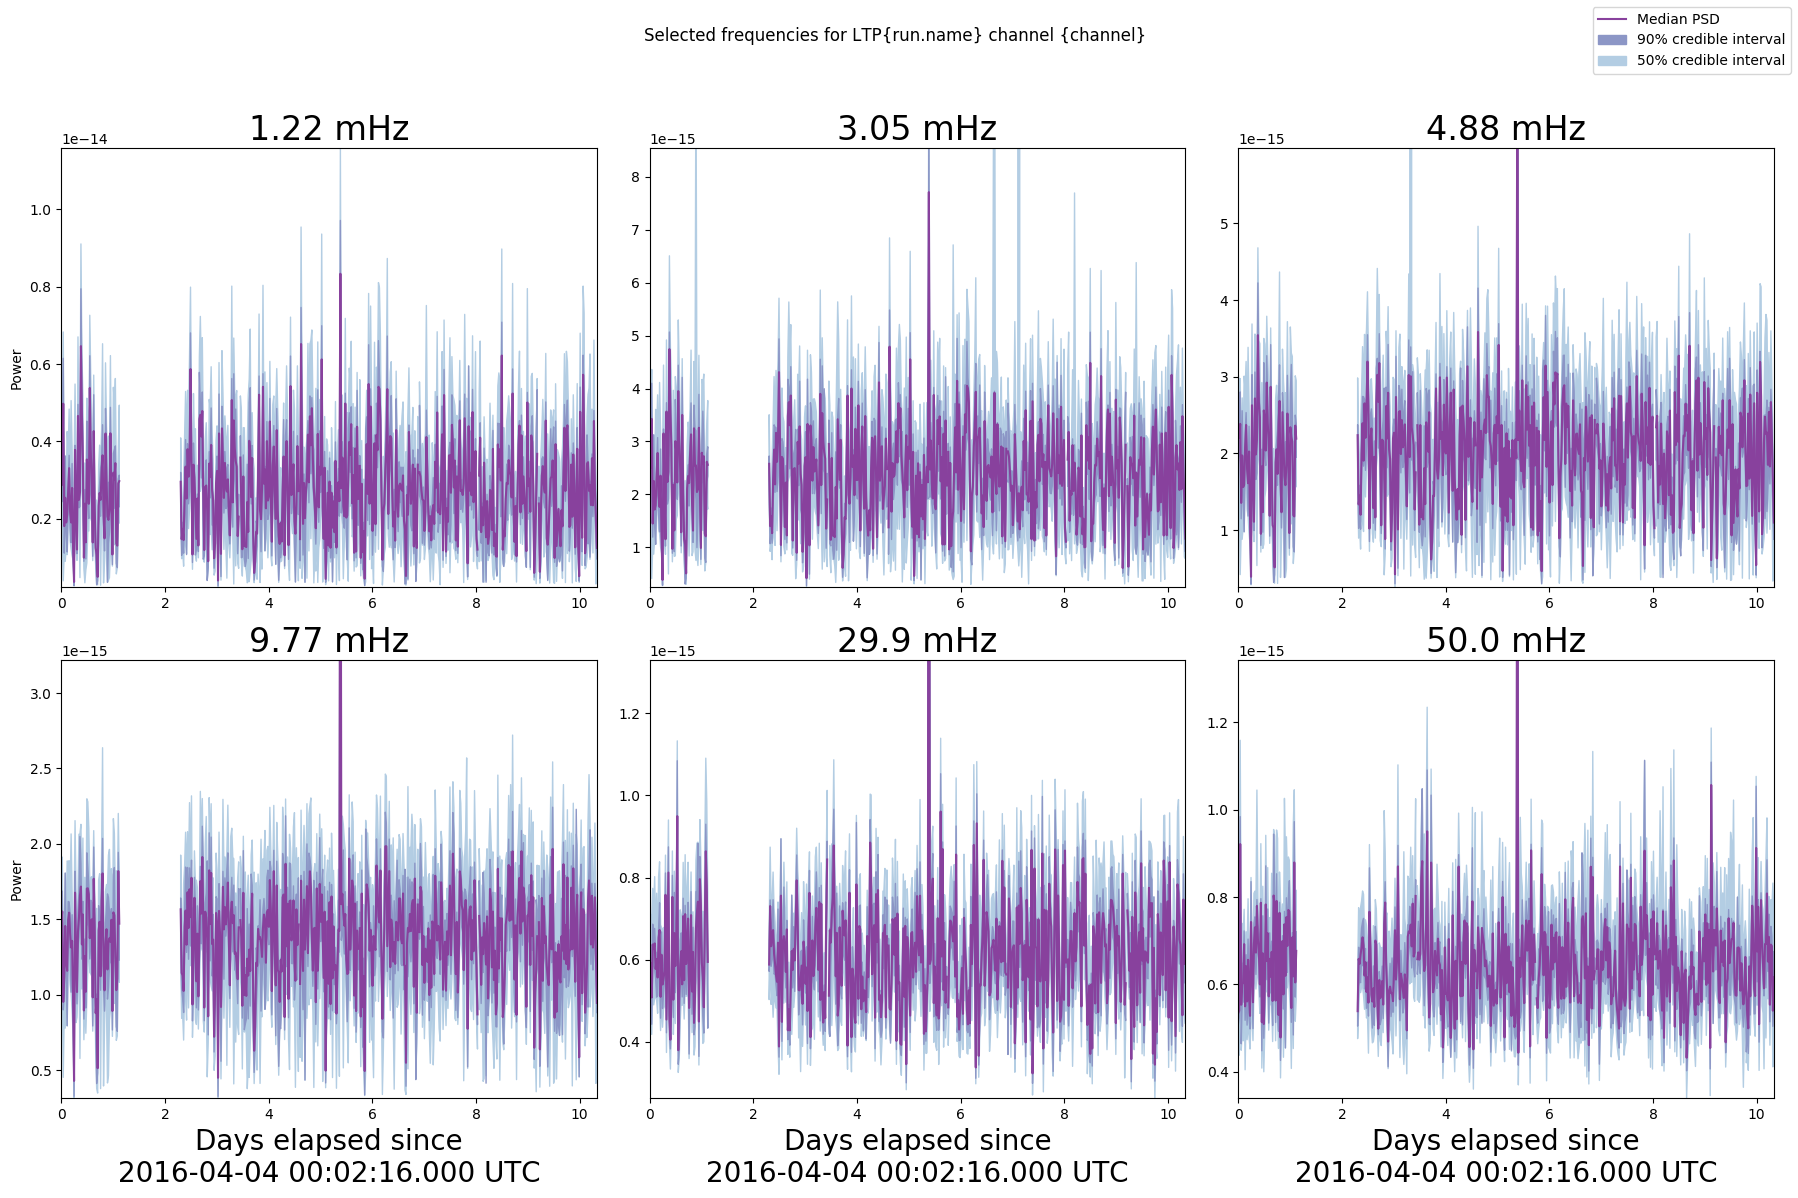
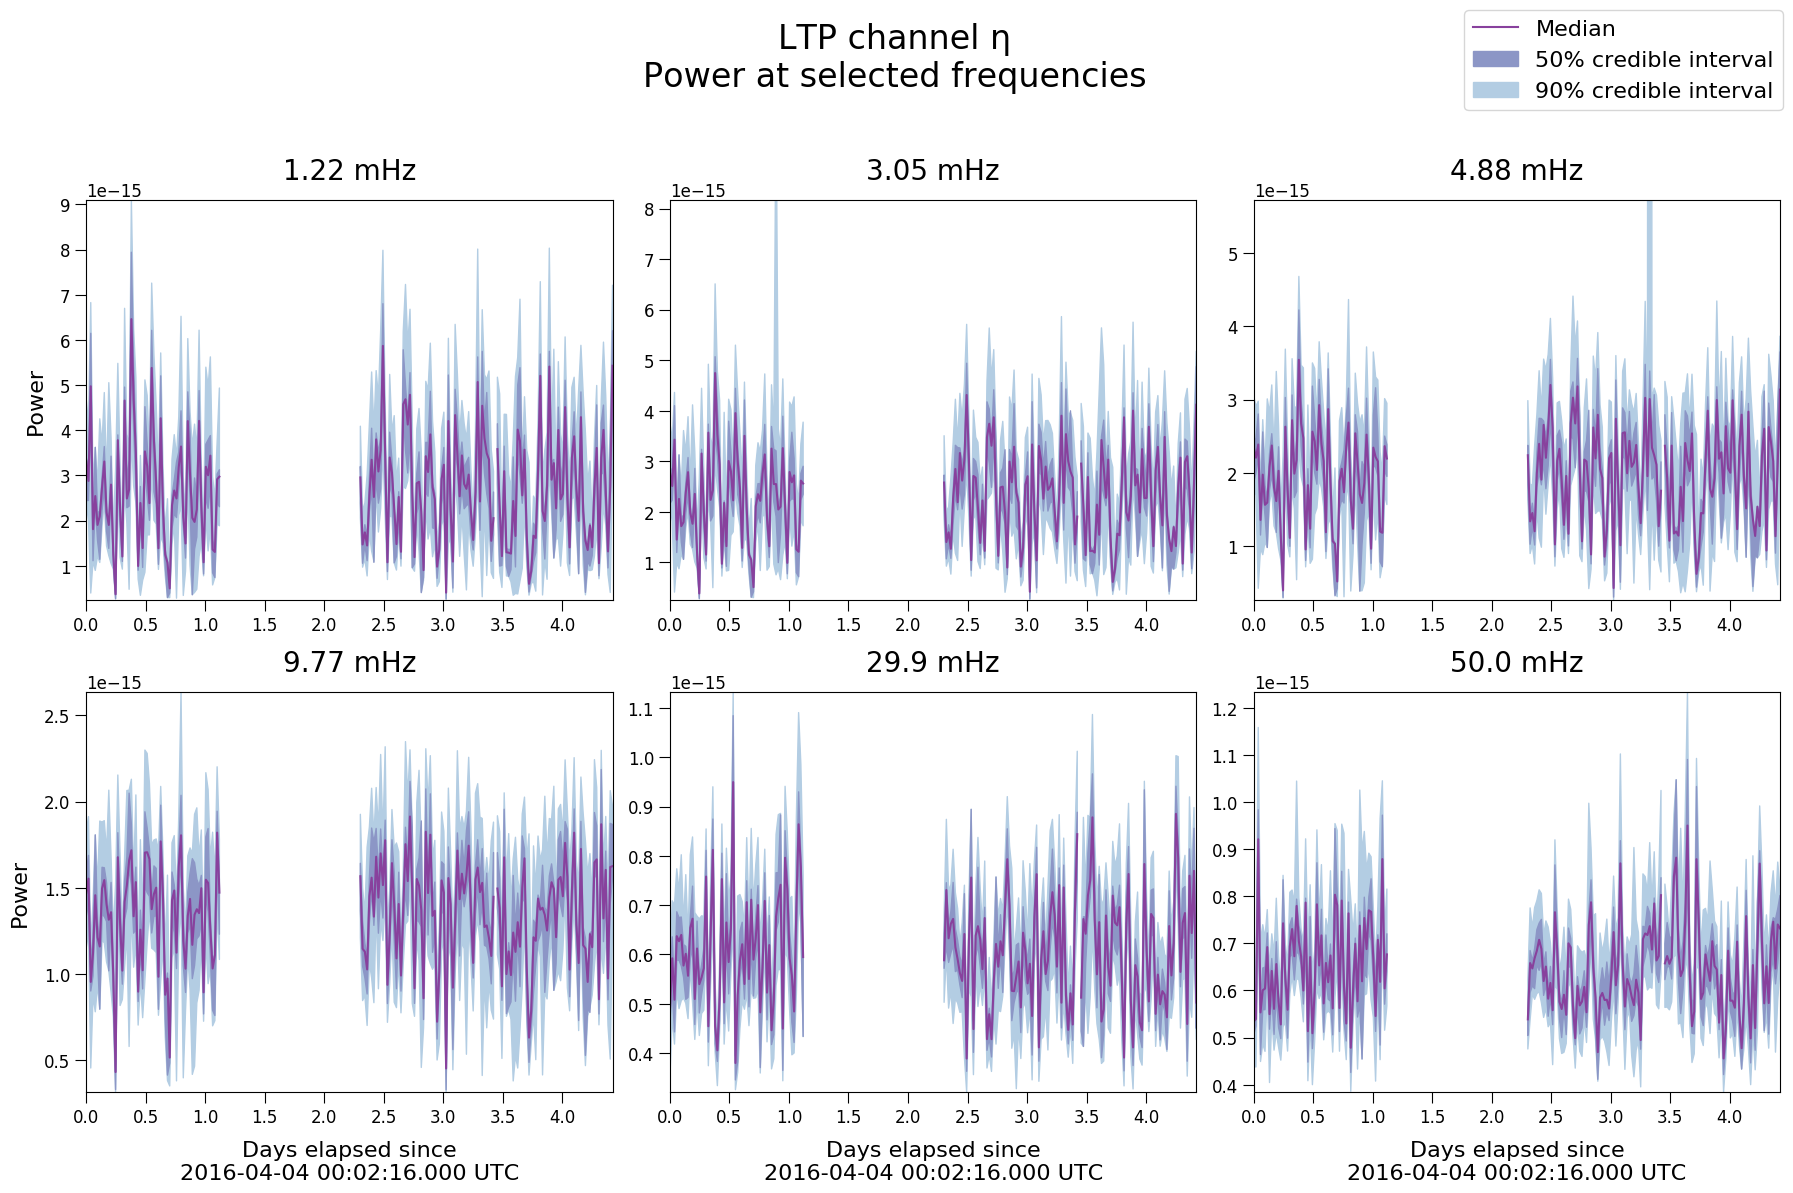
tested fft plots, fslice plots

diff --git a/src/analysis.py b/src/analysis.py
@@ -55,7 +55,7 @@ def main():
     dfs = []
     
     # Import impacts file, if any
-    impacts_file = 'impacts.dat'
+    impacts_file = os.path.join('data', 'impacts.dat')
     impacts = np.array([])
     if os.path.exists(impacts_file):
         print('Importing impacts file...')
@@ -84,10 +84,10 @@ def main():
 
         # Generate plots
         frequencies = np.array([1e-3, 3e-3, 5e-3, 1e-2, 3e-2, 5e-2])
-        plot_tslices(run, df)
+        #plot_tslices(run, df)
         #plot_fslices(run, df, frequencies)
         #plot_spectrograms(run, df)
-        #plot_ffts(run, df, frequencies)
+        plot_ffts(run, df, frequencies)
 
     if args.compare:
         run_str = [f'{run.mode} {run.name}' for run in runs]
